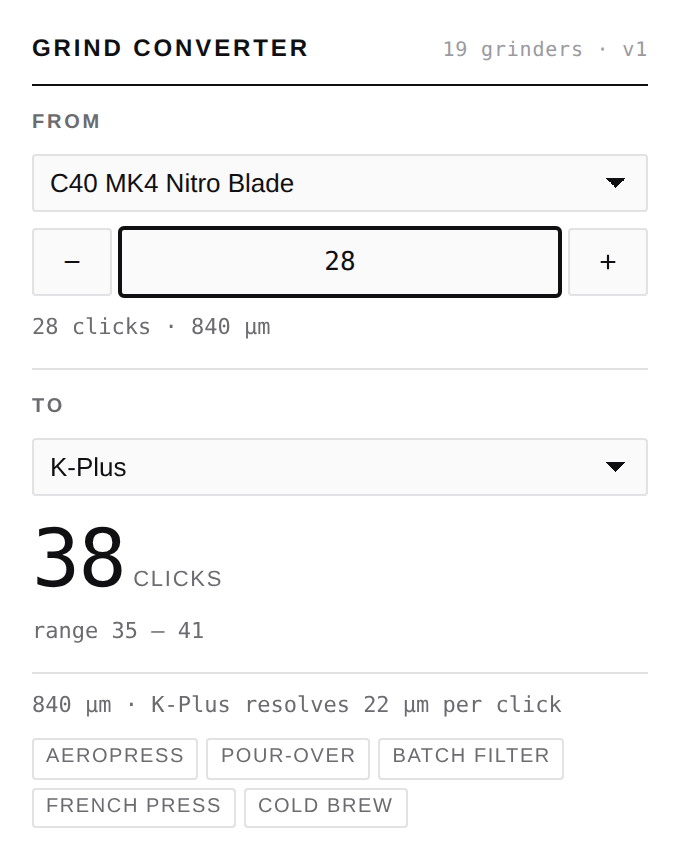
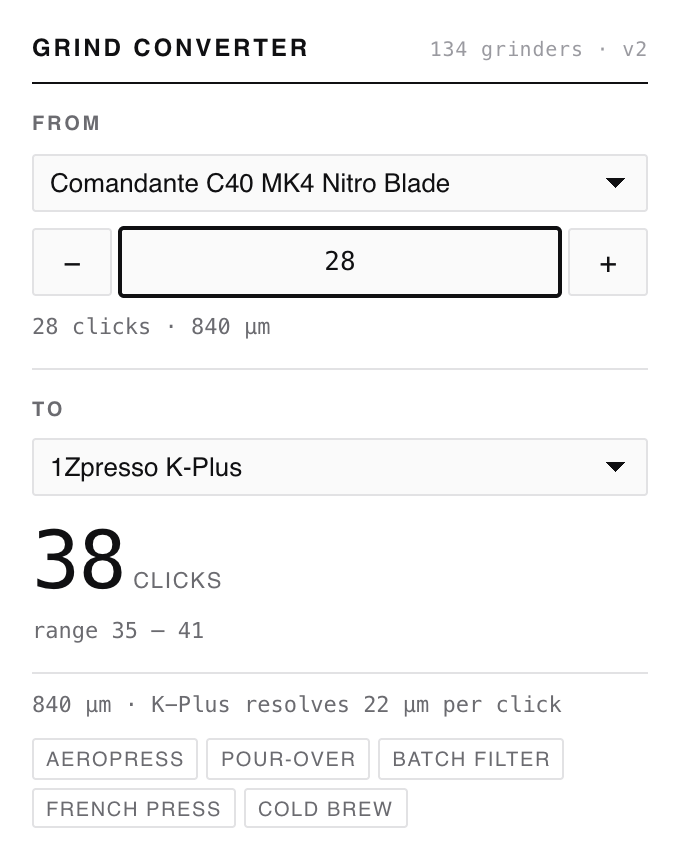
docs: refresh screenshots and describe the searchable picker
The screenshot script and the e2e helper now look a grinder's name up in the
built dataset instead of guessing it from the id: a slug joins words the name
keeps apart, so fellow-ode-gen2 searched as typed matches nothing.

diff --git a/tests/e2e/fixtures.ts b/tests/e2e/fixtures.ts
@@ -78,20 +78,30 @@ export const test = base.extend<ExtensionFixtures>({
 export const expect = test.expect;
 
 /**
- * Pick a grinder by id through the real widget: open, type, click.
+ * Query that reaches a grinder in the picker.
  *
- * The query is derived from the id, which is a slug of brand and model, so its
- * words are exactly what `searchGrinders` matches against. If an id ever stops
- * matching its own name the click fails loudly rather than selecting the wrong
- * grinder.
+ * Derived from the shipped name rather than from the id: a slug joins words the
+ * name keeps apart, so "fellow-ode-gen2" searched as typed matches nothing —
+ * the catalogue says "Ode Gen 2".
  */
+function queryFor(id: string): string {
+  const dataset = JSON.parse(
+    readFileSync(join(EXTENSION_PATH, '..', 'src/generated/dataset.json'), 'utf8'),
+  ) as { grinders: Array<{ id: string; brand: string; model: string }> };
+
+  const grinder = dataset.grinders.find((g) => g.id === id);
+  if (!grinder) throw new Error(`no grinder with id "${id}" in the built dataset`);
+  return `${grinder.brand} ${grinder.model}`;
+}
+
+/** Pick a grinder by id through the real widget: open, type, click. */
 export async function selectGrinder(
   popup: Page,
   field: 'from-grinder' | 'to-grinder',
   id: string,
 ): Promise<void> {
   await popup.getByTestId(`${field}-button`).click();
-  await popup.getByTestId(`${field}-search`).fill(id.replace(/-/g, ' '));
+  await popup.getByTestId(`${field}-search`).fill(queryFor(id));
   await popup.getByTestId(`${field}-list`).locator(`li[data-id="${id}"]`).click();
   await expect(popup.getByTestId(field)).toHaveAttribute('data-value', id);
 }

diff --git a/README.md b/README.md
@@ -6,6 +6,10 @@ A Chrome extension that answers one question: *I grind at 24 clicks on my JX-Pro
 Pick the grinder you know, dial in your setting, pick the grinder you want, and
 the extension shows the equivalent setting on it.
 
+With a catalogue this size the picker is searchable: type a few characters of a
+brand or model to narrow it, or browse by brand — groups start collapsed, and
+the grinders you reached for last sit at the top.
+
 ![Popup converting 24 clicks on a 1Zpresso JX-Pro to 10 clicks on a Comandante C40](docs/screens/01-espresso-jxpro-to-c40-light.png)
 
 ## How it works
@@ -52,26 +56,47 @@ The build reports its own size budget:
 ```
 $ npm run build:data
 
-  grinders        19
+  grinders        134
   brew methods    8
-  confidence      manufacturer=11  community=4  estimated=4
-  raw JSON        8.3 KB
-  gzipped         1.9 KB
-  per grinder     445 B raw
-  projected 1000  435.0 KB raw, 101.2 KB gzipped
+  confidence      manufacturer=11  community=120  estimated=3
+  raw JSON        86.3 KB
+  gzipped         9.5 KB
+  per grinder     660 B raw
+  projected 1000  644.4 KB raw, 71.2 KB gzipped
 ```
 
-**This is why there is no backend.** At ~100 bytes gzipped per grinder, a
-thousand-grinder catalogue is ~100 KB — smaller than a single product photo. It
+**This is why there is no backend.** At ~70 bytes gzipped per grinder, a
+thousand-grinder catalogue is ~70 KB — smaller than a single product photo. It
 ships inside the extension, so the converter works offline, needs no network
 permission, and cannot leak what you grind.
+
+The figure improves as the catalogue grows: a `linear` entry is two numbers
+regardless of how much measurement went into it, so brands that publish a step
+cost almost nothing to add.
 
 If the catalogue ever outgrows that, the escape hatch is a static JSON file on a
 CDN compared by `version`, not a server. Nothing here needs one.
 
 ### Growing the catalogue
 
-Two steps: collect the spreadsheets, then map them onto the schema.
+Every path ends at the same place — a CSV in the shape `import-csv.mjs` reads —
+so the schema, the validation and the provenance rules are shared no matter
+where the numbers came from.
+
+```
+Google Sheets ──> scrape-sheets.mjs ─────┐
+PDF tables ─────> pdf-table-to-csv.mjs ──┼──> twc-table-to-csv.mjs ──┐
+                                         │                           ├─> import-csv.mjs ─> data/grinders/*.json
+converter API ──> beeancoffee-harvest.mjs ───────────────────────────┘
+```
+
+Sources rarely publish microns. What they publish is a *correspondence* — this
+setting on grinder A matches that setting on grinder B — which only becomes a
+calibration once something in the chain carries an absolute particle size. Two
+things can supply it: a grinder whose dial is marked in microns (the Mazzer ZM
+appears in most published tables for exactly this reason), or a grinder whose
+step is published and independently confirmed. Everything below is a way of
+getting from a correspondence to a micron.
 
 #### 1. Collect (`scripts/scrape-sheets.mjs`)
 
@@ -114,7 +139,51 @@ Only reaches sheets that are already publicly readable, runs sequentially with a
 Check that the source's terms allow reuse before republishing its data; the
 per-entry `sources` field exists so attribution survives.
 
-#### 2. Map (`scripts/import-csv.mjs`)
+#### 2. Recover tables from PDFs (`scripts/pdf-table-to-csv.mjs`)
+
+Publishers migrate to PDF, and the PDF is often *newer* than the spreadsheet it
+replaced — treating it as a duplicate silently loses whatever was added since.
+
+```bash
+pdftotext -bbox-layout table.pdf table.xml     # poppler
+node scripts/pdf-table-to-csv.mjs table.xml --out data/raw/pdf
+```
+
+It reads word coordinates rather than `pdftotext -layout` text, because these
+exports wrap long headings over several lines and poppler then groups
+neighbouring cells into one block — "Niche Zero" and "Eureka Atom Pro" come back
+interleaved as `Niche Eureka Zero Atom Pro`. Only the x coordinate says which
+column a word belongs to.
+
+Pages after the first usually drop the micron column and repeat one grinder as a
+key instead; the scale is carried across through that column and the synthesised
+values are labelled as such.
+
+#### 3. Sweep a converter API (`scripts/beeancoffee-harvest.mjs`)
+
+Some services convert between grinders without ever stating a particle size. A
+micron scale is recovered by sweeping a *reference* grinder whose step is known
+and reading off what the target says.
+
+```bash
+node scripts/beeancoffee-harvest.mjs --out bc.csv
+```
+
+**The reference is the whole ballgame.** Its error is baked into every entry
+harvested through it, so it has to be a grinder whose published step is
+confirmed by an independent measurement — not merely published. The default is
+the Timemore Chestnut C2: the maker publishes 33 µm per click, and a sieve run
+against a micron-dialled grinder agrees to within 1% over 55 readings. The
+Comandante C40 was the other candidate and was rejected for sitting ~9% coarse
+against that same sieve run.
+
+Two behaviours worth knowing: such services extrapolate past the ends of a dial
+rather than clamping — ask for something finer than the grinder reaches and you
+get a negative click — and a fit is only trustworthy across the span actually
+sampled, so the emitted scale is narrowed to that span rather than claiming the
+untested ends.
+
+#### 4. Map (`scripts/import-csv.mjs`)
 
 Converts a spreadsheet into a validated data file:
 
@@ -128,12 +197,40 @@ microns_per_step, zero_offset` **or** `anchors` (`"1:300; 6:800; 11:1300"`),
 plus optional `clicks_per_rotation, confidence, aliases, note, source`.
 Rows without a usable calibration are reported and skipped, never guessed at.
 
+### Cross-checking a source
+
+A new source usually overlaps the catalogue. That overlap is free evidence, and
+`--compare` spends it: it reports, per shared grinder, the ratio between what we
+ship and what the source says.
+
+```bash
+node scripts/twc-table-to-csv.mjs data/raw/**/*.csv --compare src/generated/dataset.json
+```
+
+Read the *spread*, not just the median. Readings scattered around 1.0 are two
+measurements of the same thing. A tight cluster sitting away from 1.0 is a slope
+error — one of the two curves is simply wrong, and no amount of extra data
+points will fix it. Errors found this way so far: a step copied from the
+neighbouring model, a figure attributed to a manufacturer that its own
+documentation contradicts, and a whole brand whose readings disagree with every
+other source in both directions.
+
+Compare against the catalogue *before* importing the source, or it will be
+comparing the source with itself.
+
 ### Validation
 
 `npm run check:data` goes past JSON well-formedness. It rejects duplicate ids,
-uncited entries, scales whose step exceeds their range, and — most importantly —
-**non-monotonic calibrations**, because the converter inverts these curves and a
-non-monotonic one would make `microns → setting` ambiguous and silently wrong.
+uncited entries, scales whose step exceeds their range, anchors that do not
+cover the scale they claim, and — most importantly — **non-monotonic
+calibrations**, because the converter inverts these curves and a non-monotonic
+one would make `microns → setting` ambiguous and silently wrong.
+
+The unit suite adds invariants over the built dataset: no grinder may report
+negative microns, or top out past ~2500 µm, or offer only a handful of
+positions. These are the checks that catch a bad import, and they earn their
+keep — an extrapolated fit that read −126 µm at zero, and another reaching
+3288 µm, both looked entirely reasonable in the source CSV.
 
 ## Development
 
@@ -170,10 +267,28 @@ Two things make the E2E suite work that are worth knowing before touching it:
 src/core/      pure conversion + dataset access, no DOM, no chrome APIs
 src/ui/        popup markup, styles, controller, prefs
 src/generated/ built dataset (checked in; CI verifies it matches data/)
-data/          hand-maintained source data, one file per brand
-scripts/       dataset build, CSV import, screenshot rendering
+data/grinders/ reviewable source data, one file per brand or per source
+data/raw/      scraped material, gitignored; provenance lives in each entry
+scripts/       dataset build, ingestion, screenshot rendering
 tests/         unit (Vitest) and e2e (Playwright)
 ```
+
+Ingestion scripts, in the order data flows through them:
+
+```
+scrape-sheets.mjs        collect Google Sheets linked from a blog series
+pdf-table-to-csv.mjs     recover a table from a PDF via word coordinates
+twc-table-to-csv.mjs     grinder-per-column tables -> import shape; --compare
+beeancoffee-harvest.mjs  sweep a converter API against a known reference
+import-csv.mjs           validated CSV -> data/grinders/*.json
+build-dataset.mjs        data/ -> src/generated/dataset.json, with the checks
+```
+
+`data/raw/` is deliberately not committed. Nothing downstream reads it at build
+time — it is the working material an import was derived from, and re-running one
+means re-fetching, which is the honest behaviour anyway since the sources
+change. What has to survive is the attribution, and that lives in each entry's
+`sources`.
 
 `src/core` has no dependency on `chrome.*` or the DOM, so the conversion logic is
 testable in plain Node and reusable outside the extension.
